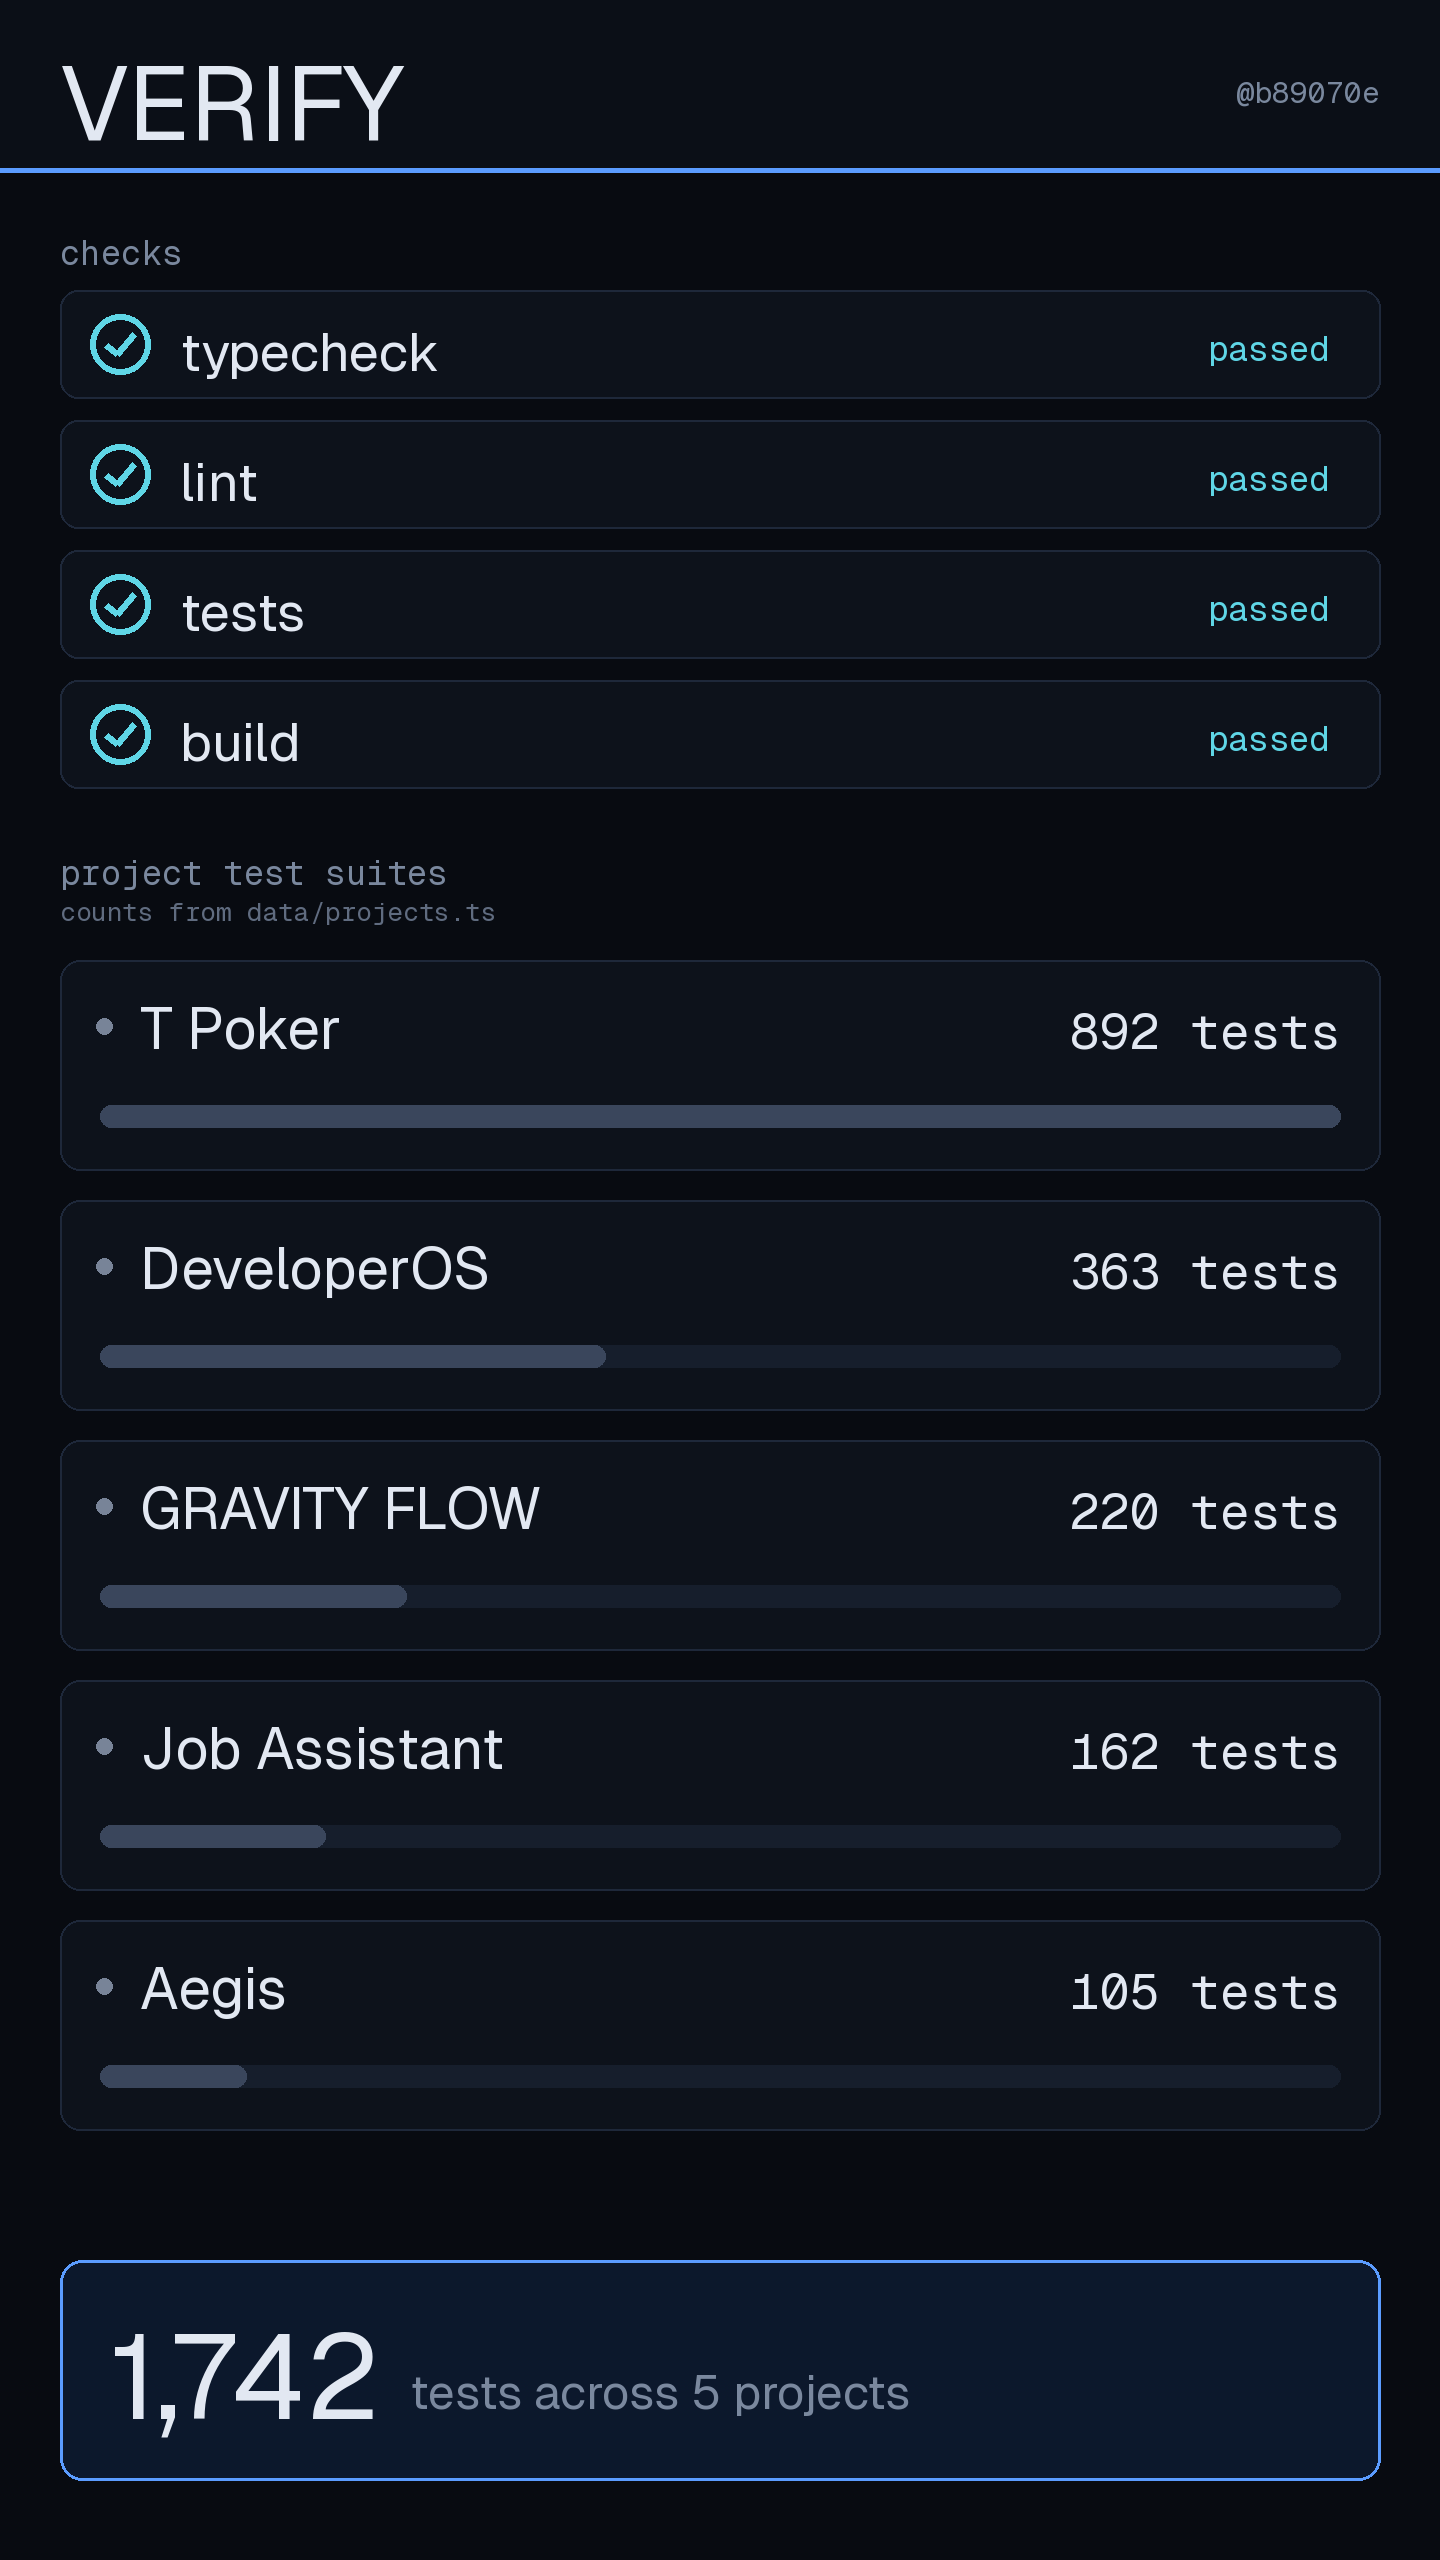
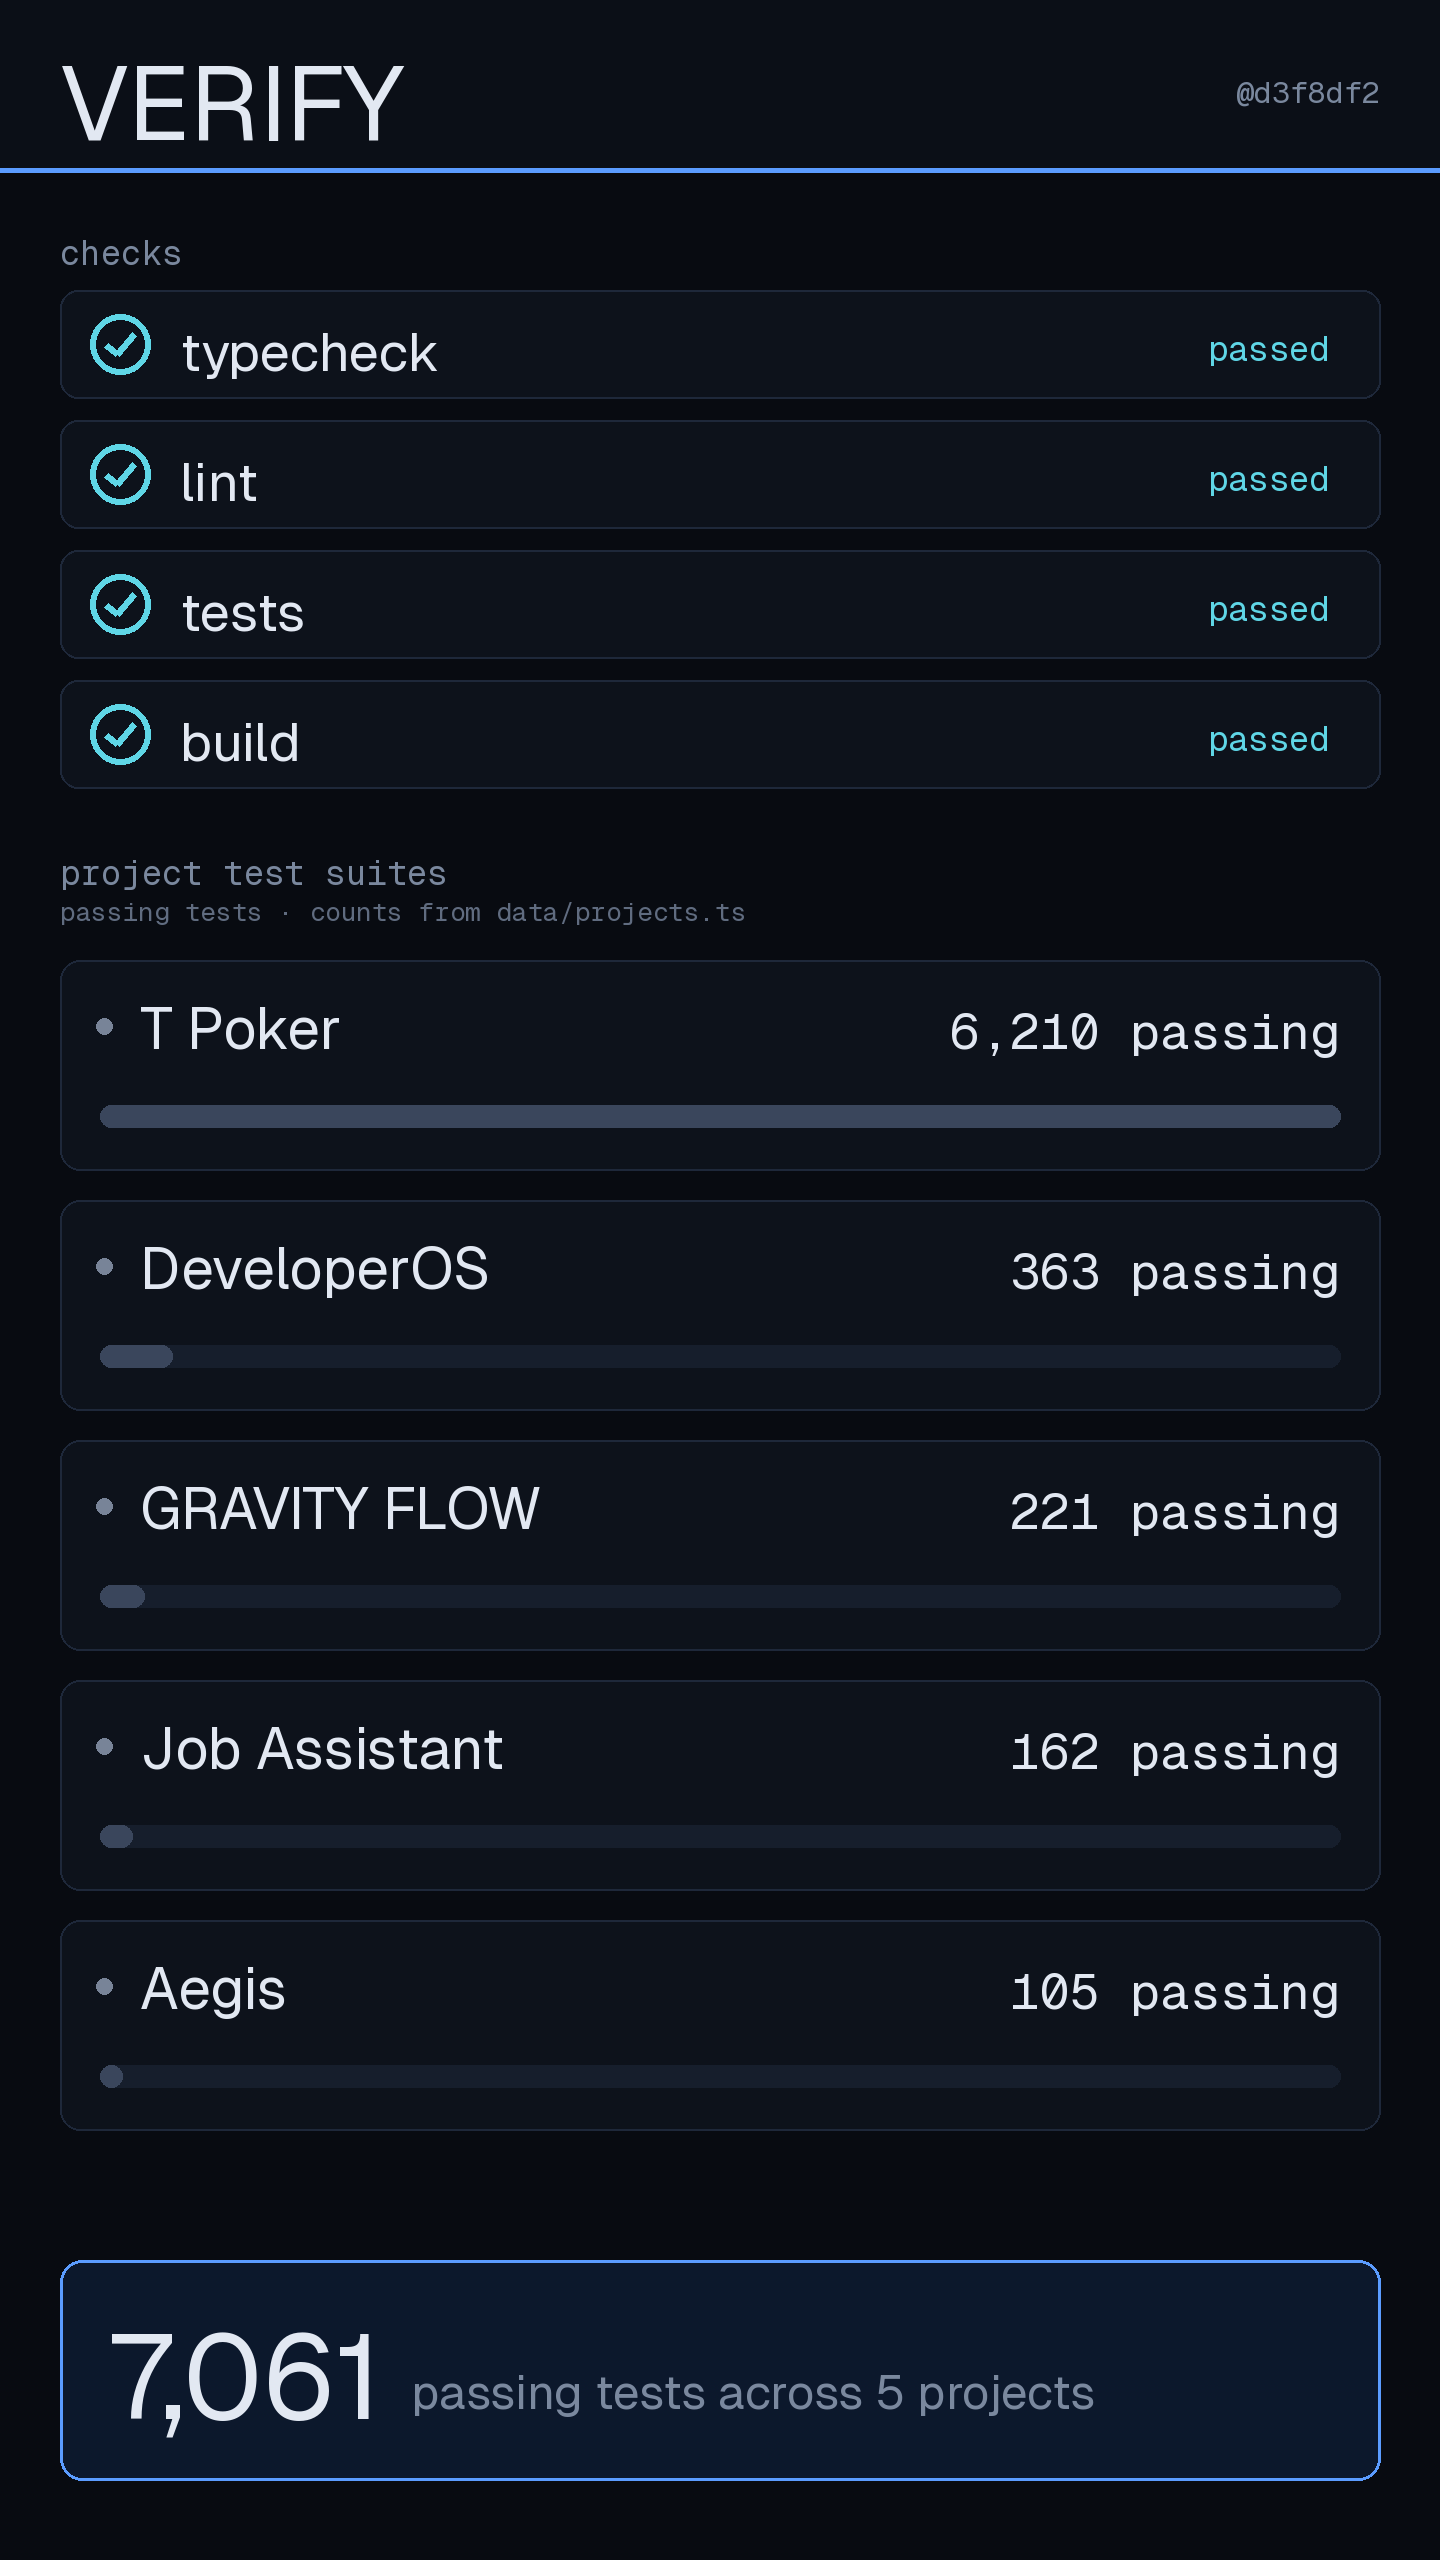
Content: T Poker CI is eight path-scoped jobs; Job Assistant filters are 310 terms in 7 lists; VERIFY texture
- T Poker's ci.yml runs eight jobs, each gated on the surface a push changes (plus the secret scan): the
  metric is now "8 · CI jobs, scoped per push" (was "5 CI jobs per push"), and the Delivery evidence says so.
- Job Assistant's shipped config.yaml holds 310 terms in seven populated lists (ten defined, three empty).
- The VERIFY monitor texture is regenerated from the verified counts (passing tests: 6,210 / 363 / 221 /
  162 / 105, total 7,061) at d3f8df2; only that texture changes — WRITE, BUILD, laptop and pad keep their
  hashes. The frames that show it are re-rendered next.

Claude-Session: https://claude.ai/code/session_016KFmgXUbfgxbHPoW46Pkr1

diff --git a/data/projects.ts b/data/projects.ts
@@ -114,7 +114,8 @@ export const projects: Project[] = [
     metrics: [
       // CI at main: 802 xUnit (incl. the Postgres money-path suite) + 5,379 Jest + 29 Vitest, all passing.
       { value: "6,210", label: "Passing tests, both stacks" },
-      { value: "5", label: "CI jobs per push" },
+      // .github/workflows/ci.yml: eight jobs, each gated on the surface a push changes (plus the secret scan).
+      { value: "8", label: "CI jobs, scoped per push" },
       { value: "3", label: "Targets from one codebase" },
       { value: "0", label: "Floating-point money bugs" },
     ],
@@ -435,7 +436,7 @@ export const projects: Project[] = [
     metrics: [
       { value: "7", label: "Source adapters" },
       { value: "162", label: "Tests" },
-      { value: "310", label: "Filter terms, 8 lists" },
+      { value: "310", label: "Filter terms, 7 lists" },
       { value: "1", label: "SQLite file as all state" },
     ],
     stack: [
@@ -460,7 +461,7 @@ export const projects: Project[] = [
         },
         {
           title: "Deterministic filtering, no model in the hot path",
-          body: "Ranking is 310 configured terms across eight lists plus explicit experience and geography gates. It's boring, it's auditable, and when a good role gets filtered out you can point at the exact rule and change it.",
+          body: "Ranking is 310 configured terms across seven lists plus explicit experience and geography gates. It's boring, it's auditable, and when a good role gets filtered out you can point at the exact rule and change it.",
         },
         {
           title: "A single concurrency group across scheduled jobs",

diff --git a/data/work.ts b/data/work.ts
@@ -19,7 +19,7 @@ export const flagships: Flagship[] = [
   { id: "poker", number: "01", kicker: "A poker study platform and home-game manager, shipped from one codebase",
     story: ["One Expo codebase renders iOS, Android and the live web app, backed by an ASP.NET Core CQRS service over PostgreSQL.",
             "The financial core runs in integer cents, and the two stacks carry 6,210 passing tests."],
-    metricLabels: ["Passing tests, both stacks", "Targets from one codebase", "CI jobs per push"] },
+    metricLabels: ["Passing tests, both stacks", "Targets from one codebase", "CI jobs, scoped per push"] },
   { id: "aegis", number: "02", kicker: "A Security Operations Centre where module isolation is enforced by the compiler",
     story: ["Security events flow from ingestion through detection and threat scoring to alerts over MassTransit and RabbitMQ, and reach the dashboard live over SignalR.",
             "The whole stack comes up from one Docker command that mints its own RS256 keys."],

diff --git a/data/skills.ts b/data/skills.ts
@@ -138,7 +138,7 @@ export const skillGroups: SkillGroup[] = [
     evidence:
       // The Docker-command line lives in the Approach section's "Ship" stage;
       // this one leads with CI instead so the two are not the same sentence.
-      "T Poker runs 5 CI jobs on every push across two languages, and Aegis's whole stack — API, frontend, PostgreSQL, Redis, RabbitMQ — comes up under one compose file."
+      "T Poker's CI runs eight jobs across two languages, each scoped to what a push changes, and Aegis's whole stack — API, frontend, PostgreSQL, Redis, RabbitMQ — comes up under one compose file."
   },
   {
     id: "verify",
